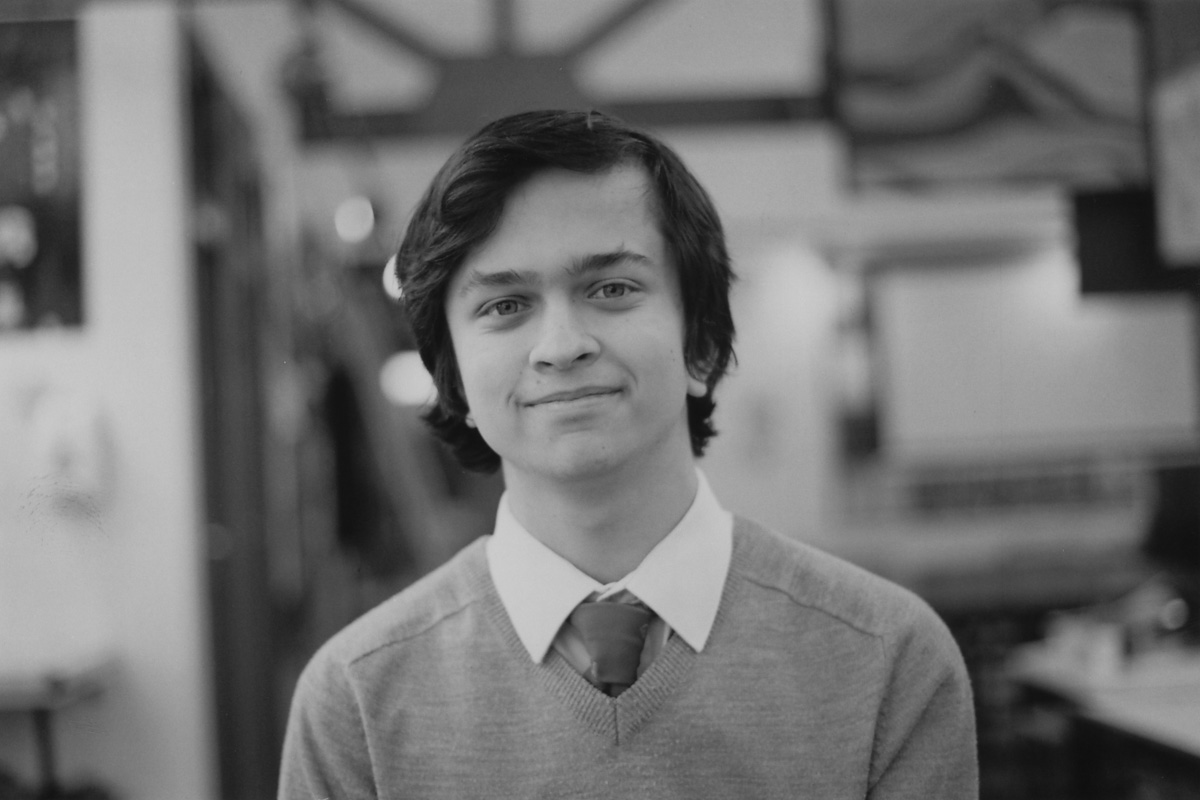
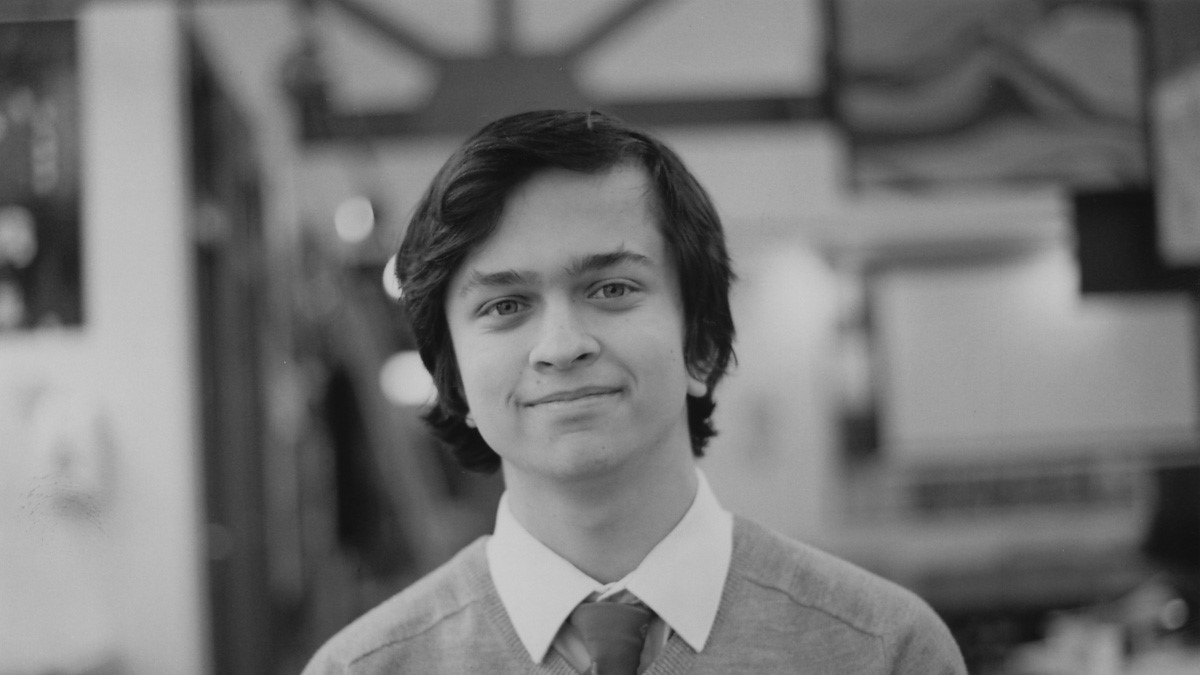
changed images, styling of about page, added fa, disabled jarallax

diff --git a/about.html b/about.html
@@ -6,7 +6,8 @@
   <meta http-equiv="X-UA-Compatible" content="ie=edge">
   <!-- Bootstrap Dependencies -->
   <link rel="stylesheet" href="https://stackpath.bootstrapcdn.com/bootstrap/4.3.1/css/bootstrap.min.css" integrity="sha384-ggOyR0iXCbMQv3Xipma34MD+dH/1fQ784/j6cY/iJTQUOhcWr7x9JvoRxT2MZw1T" crossorigin="anonymous">
-  <!-- Fonts -->
+  <!-- Font Awesome Icons -->
+  <script src="https://kit.fontawesome.com/d580e608c2.js" crossorigin="anonymous"></script>
   <!-- Favicon -->
   <link rel="apple-touch-icon" sizes="180x180" href="/apple-touch-icon.png">
   <link rel="icon" type="image/png" sizes="32x32" href="/favicon-32x32.png">
@@ -16,10 +17,12 @@
   <meta name="msapplication-TileColor" content="#da532c">
   <meta name="theme-color" content="#ffffff">
   <!-- Custom Styles -->
+  <link rel="stylesheet" href="css/common.css">
+  <link rel="stylesheet" href="css/about.css">
   <title>Matthew Watt - About</title>
 </head>
 <body>
-  <nav class="navbar navbar-expand-sm navbar-dark bg-dark">
+  <nav class="navbar navbar-expand-sm navbar-light bg-light">
     <a class="navbar-brand" href="./">Matthew Watt</a>
     <button class="navbar-toggler" type="button" data-toggle="collapse" data-target="#navbarSupportedContent" aria-controls="navbarSupportedContent" aria-expanded="false" aria-label="Toggle navigation">
       <span class="navbar-toggler-icon"></span>
@@ -41,29 +44,42 @@
       </ul>
     </div>
   </nav>
-  <main>
-    <h1>About Me</h1>
-    <h2>Skills</h2>
-    <p>
+  <header class="header-img mx-auto px-auto">
+    <img src="images/bw_guitar/bw_guitar_400.jpg"
+         srcset="images/bw_guitar/bw_guitar_big.jpg 2000w,
+         images/bw_guitar/bw_guitar_1920.jpg 1920w,
+         images/bw_guitar/bw_guitar_1200.jpg 1200w,
+         images/bw_guitar/bw_guitar_992.jpg 992w,
+         images/bw_guitar/bw_guitar_768.jpg 768w,
+         images/bw_guitar/bw_guitar_576.jpg 576w,
+         images/bw_guitar/bw_guitar_400.jpg 400w"
+         alt="Black and white photo of Matthew Watt playing guitar">
+  </header>
+  <main class="container-fluid">
+    <h1 class="display-4 mt-3 mx-auto text-center">About Me</h1>
+    <h2 class="text-center">Skills</h2>
+    <p class="mx-0">
       <ul>
         <li>Language/Tech: Java, Ruby, Angular, HTML/CSS/JS, SQL, Python, Haskell & Git</li>
-        <li>Interdisciplinary experience as part of <a href="http://gec.group.shef.ac.uk/wp/">Global Engineering Challenge</a> & <a href="http://www.yourehired.group.shef.ac.uk/wp/">Engineering: You're Hired</a> at University of Sheffield.</li>
+        <li>Interdisciplinary experience as part of <a href="http://gec.group.shef.ac.uk/wp/" class="my-link" >Global Engineering Challenge</a> & <a href="http://www.yourehired.group.shef.ac.uk/wp/" class="my-link" >Engineering: You're Hired</a> at University of Sheffield.</li>
         <li>Quick to learn new workflows and processes.</li>
         <li>Good organisation & time management skills developed through individual and group assignments at university.</li>
       </ul>
     </p>
-    <h2>Experience: Grass Valley internship, Summer 2018</h2>
+    <hr>
+    <h2 class="text-center">Experience: Grass Valley internship, Summer 2018</h2>
     <p>
-      I completed a 10 week internship for Grass Valley from July to September 2018, working in their Castle Donington office. I was part of a Core Technology team, working on some of the systems underlying their other products. I completed bug-fixing and polish on user interfaces in Angular 4, helping the company address some feedback from internal and external users. In the process I also gained experience with <a href="https://github.com/intuit/karate">Karate</a>, an API testing framework - I uncovered and helped troubleshoot a bug which, when fixed, ensured the build process for one of GV's core systems ran smoothly on all of its different deployment platforms. References available on request.
+      I completed a 10 week internship for Grass Valley from July to September 2018, working in their Castle Donington office. I was part of a Core Technology team, working on some of the systems underlying their other products. I completed bug-fixing and polish on user interfaces in Angular 4, helping the company address some feedback from internal and external users. In the process I also gained experience with <a href="https://github.com/intuit/karate" class="my-link" >Karate</a>, an API testing framework - I uncovered and helped troubleshoot a bug which, when fixed, ensured the build process for one of GV's core systems ran smoothly on all of its different deployment platforms. References available on request.
     </p>
-    <h2>Education</h2>
-    <h3>University of Sheffield (2016-2020)</h3>
+    <hr>
+    <h2 class="text-center">Education</h2>
+    <h3 class="text-center">University of Sheffield (2016-2020)</h3>
     <ul>
-      <li>On track for a First in <a href="https://www.sheffield.ac.uk/prospectus/courseDetails.do?id=G4002020">MCOMP Computer Science</a> @ University of Sheffield</li>
+      <li>On track for a First in <a href="https://www.sheffield.ac.uk/prospectus/courseDetails.do?id=G4002020" class="my-link" >MCOMP Computer Science</a> @ University of Sheffield</li>
       <li>Received a scholarship for academic achievement (achieved equivalent of A*AA at A level and maintained high grades at university)</li>
       <li>Taken mostly engineering-focused and practical modules throughout 3rd and 4th year.</li>
     </ul>
-    <h3>Loughborough Grammar School (2009-2016)</h3>
+    <h3 class="text-center">Loughborough Grammar School (2009-2016)</h3>
     <h4>A Level:</h4>
     <ul>
       <li>A in Mathematics, Physics and Computing</li>
@@ -79,21 +95,31 @@
       <li>A in Biology, Chemistry, Computing and English Language</li>
       <li>B in English Literature</li>
     </ul>
-    <h2>Hobbies & Interests</h2>
+    <hr>
+    <h2 class="text-center">Music</h2>
     <p>
-      My main hobby for the past few years has been writing and performing music. I've been heavily involved in the <a href="https://musicplayers.union.shef.ac.uk/">Music Players' Society</a> at university, being elected first as Rock Band Coordinator and then as President in my second and third year. It's taught me a lot about working with people in a more diverse team than my course, taking responsibility for fixing problems and organising events which benefit the society of 150+ members.
+      My main hobby for the past few years has been writing and performing music. I've been heavily involved in the <a href="https://musicplayers.union.shef.ac.uk/" class="my-link" >Music Players' Society</a> at university, being elected first as Rock Band Coordinator and then as President in my second and third year. It's taught me a lot about working with people in a more diverse team than my course, taking responsibility for fixing problems and organising events which benefit the society of 150+ members.
     </p>
+    <h3 class="text-center">Jumper Boy</h3>
+    <div class="container d-flex justify-content-around py-3">
+      <a href="https://smarturl.it/l30kn5">
+        <i class="fab fa-spotify"></i>
+      </a>
+      <a href="https://www.facebook.com/pg/JumperBoyTheBand">
+        <i class="fab fa-facebook-square"></i>
+      </a>
+      <a href="https://www.instagram.com/jumperboytheband/">
+        <i class="fab fa-instagram"></i>
+      </a>
+    </div>
     <p>
-      I'm also a guitarist/vocalist and songwriter for the band Jumper Boy - A 4 Piece Indie Rock Band with Math Rock, Post Punk and Lo-Fi influences. We've released a 5-song EP on streaming services and played increasingly popular gigs in the Sheffield area.
-      <a href="https://smarturl.it/l30kn5">Listen to our EP</a>
-      <a href="https://www.facebook.com/pg/JumperBoyTheBand">Facebook</a>
-      <a href="https://www.instagram.com/jumperboytheband/">Instagram</a>
+      I'm also a guitarist/vocalist and songwriter for the band Jumper Boy - A 4 Piece Indie Rock band with Math Rock, Post Punk and Lo-Fi influences. We've released a 5-song EP online and played increasingly popular gigs in the Sheffield area.
     </p>
   </main>
   <script src="https://code.jquery.com/jquery-3.3.1.slim.min.js" integrity="sha384-q8i/X+965DzO0rT7abK41JStQIAqVgRVzpbzo5smXKp4YfRvH+8abtTE1Pi6jizo" crossorigin="anonymous"></script>
   <script src="https://cdnjs.cloudflare.com/ajax/libs/popper.js/1.14.7/umd/popper.min.js" integrity="sha384-UO2eT0CpHqdSJQ6hJty5KVphtPhzWj9WO1clHTMGa3JDZwrnQq4sF86dIHNDz0W1" crossorigin="anonymous"></script>
   <script src="https://stackpath.bootstrapcdn.com/bootstrap/4.3.1/js/bootstrap.min.js" integrity="sha384-JjSmVgyd0p3pXB1rRibZUAYoIIy6OrQ6VrjIEaFf/nJGzIxFDsf4x0xIM+B07jRM" crossorigin="anonymous"></script>
-  <script src="https://unpkg.com/jarallax@1.10/dist/jarallax.min.js"></script>
-  <script src="js/image_scrolling.js"></script>
+  <!-- <script src="https://unpkg.com/jarallax@1.10/dist/jarallax.min.js"></script>
+  <script src="js/image_scrolling.js"></script> -->
 </body>
 </html>

diff --git a/index.html b/index.html
@@ -6,7 +6,8 @@
   <meta http-equiv="X-UA-Compatible" content="ie=edge">
   <!-- Bootstrap Dependencies -->
   <link rel="stylesheet" href="https://stackpath.bootstrapcdn.com/bootstrap/4.3.1/css/bootstrap.min.css" integrity="sha384-ggOyR0iXCbMQv3Xipma34MD+dH/1fQ784/j6cY/iJTQUOhcWr7x9JvoRxT2MZw1T" crossorigin="anonymous">
-  <!-- Fonts -->
+  <!-- Font Awesome Icons -->
+  <script src="https://kit.fontawesome.com/d580e608c2.js" crossorigin="anonymous"></script>
   <!-- Favicon -->
   <link rel="apple-touch-icon" sizes="180x180" href="/apple-touch-icon.png">
   <link rel="icon" type="image/png" sizes="32x32" href="/favicon-32x32.png">
@@ -42,7 +43,7 @@
       </ul>
     </div>
   </nav>
-  <header class="header-img">
+  <header class="header-img mx-auto px-auto jarallax">
     <img src="images/bw_profile_pic/bw_profile_pic_400.jpg"
          srcset="images/bw_profile_pic/bw_profile_pic_big.jpg 2000w,
          images/bw_profile_pic/bw_profile_pic_1920.jpg 1920w,
@@ -51,9 +52,10 @@
          images/bw_profile_pic/bw_profile_pic_768.jpg 768w,
          images/bw_profile_pic/bw_profile_pic_576.jpg 576w,
          images/bw_profile_pic/bw_profile_pic_400.jpg 400w"
+         sizes="(min-width: 2000px) 2000px, 100vw"
          alt="Black and white photo of Matthew Watt">
   </header>
-  <main class="container-fluid">
+  <main class="container-fluid jarallax">
     </div>
     <h1 class="display-3 mt-3 mx-auto text-center">Matthew Watt</h1>
     <hr>
@@ -76,7 +78,7 @@
   <script src="https://code.jquery.com/jquery-3.3.1.slim.min.js" integrity="sha384-q8i/X+965DzO0rT7abK41JStQIAqVgRVzpbzo5smXKp4YfRvH+8abtTE1Pi6jizo" crossorigin="anonymous"></script>
   <script src="https://cdnjs.cloudflare.com/ajax/libs/popper.js/1.14.7/umd/popper.min.js" integrity="sha384-UO2eT0CpHqdSJQ6hJty5KVphtPhzWj9WO1clHTMGa3JDZwrnQq4sF86dIHNDz0W1" crossorigin="anonymous"></script>
   <script src="https://stackpath.bootstrapcdn.com/bootstrap/4.3.1/js/bootstrap.min.js" integrity="sha384-JjSmVgyd0p3pXB1rRibZUAYoIIy6OrQ6VrjIEaFf/nJGzIxFDsf4x0xIM+B07jRM" crossorigin="anonymous"></script>
-  <script src="https://unpkg.com/jarallax@1.10/dist/jarallax.min.js"></script>
-  <script src="js/image_scrolling.js"></script>
+  <!-- <script src="https://unpkg.com/jarallax@1.10/dist/jarallax.min.js"></script>
+  <script src="js/image_scrolling.js"></script> -->
 </body>
 </html>

diff --git a/projects/habitica-assistant.html b/projects/habitica-assistant.html
@@ -6,7 +6,8 @@
   <meta http-equiv="X-UA-Compatible" content="ie=edge">
   <!-- Bootstrap Dependencies -->
   <link rel="stylesheet" href="https://stackpath.bootstrapcdn.com/bootstrap/4.3.1/css/bootstrap.min.css" integrity="sha384-ggOyR0iXCbMQv3Xipma34MD+dH/1fQ784/j6cY/iJTQUOhcWr7x9JvoRxT2MZw1T" crossorigin="anonymous">
-  <!-- Fonts -->
+  <!-- Font Awesome Icons -->
+  <script src="https://kit.fontawesome.com/d580e608c2.js" crossorigin="anonymous"></script>
   <!-- Favicon -->
   <link rel="apple-touch-icon" sizes="180x180" href="/apple-touch-icon.png">
   <link rel="icon" type="image/png" sizes="32x32" href="/favicon-32x32.png">
@@ -19,7 +20,7 @@
   <title>Matthew Watt - Projects - Habitica Assistant</title>
 </head>
 <body>
-  <nav class="navbar navbar-expand-sm navbar-dark bg-dark">
+  <nav class="navbar navbar-expand-sm navbar-light bg-light">
     <a class="navbar-brand" href="../">Matthew Watt</a>
     <button class="navbar-toggler" type="button" data-toggle="collapse" data-target="#navbarSupportedContent" aria-controls="navbarSupportedContent" aria-expanded="false" aria-label="Toggle navigation">
       <span class="navbar-toggler-icon"></span>
@@ -60,7 +61,7 @@
   <script src="https://code.jquery.com/jquery-3.3.1.slim.min.js" integrity="sha384-q8i/X+965DzO0rT7abK41JStQIAqVgRVzpbzo5smXKp4YfRvH+8abtTE1Pi6jizo" crossorigin="anonymous"></script>
   <script src="https://cdnjs.cloudflare.com/ajax/libs/popper.js/1.14.7/umd/popper.min.js" integrity="sha384-UO2eT0CpHqdSJQ6hJty5KVphtPhzWj9WO1clHTMGa3JDZwrnQq4sF86dIHNDz0W1" crossorigin="anonymous"></script>
   <script src="https://stackpath.bootstrapcdn.com/bootstrap/4.3.1/js/bootstrap.min.js" integrity="sha384-JjSmVgyd0p3pXB1rRibZUAYoIIy6OrQ6VrjIEaFf/nJGzIxFDsf4x0xIM+B07jRM" crossorigin="anonymous"></script>
-  <script src="https://unpkg.com/jarallax@1.10/dist/jarallax.min.js"></script>
-  <script src="js/image_scrolling.js"></script>
+  <!-- <script src="https://unpkg.com/jarallax@1.10/dist/jarallax.min.js"></script>
+  <script src="js/image_scrolling.js"></script> -->
 </body>
 </html>

diff --git a/projects/dissertation.html b/projects/dissertation.html
@@ -6,7 +6,8 @@
   <meta http-equiv="X-UA-Compatible" content="ie=edge">
   <!-- Bootstrap Dependencies -->
   <link rel="stylesheet" href="https://stackpath.bootstrapcdn.com/bootstrap/4.3.1/css/bootstrap.min.css" integrity="sha384-ggOyR0iXCbMQv3Xipma34MD+dH/1fQ784/j6cY/iJTQUOhcWr7x9JvoRxT2MZw1T" crossorigin="anonymous">
-  <!-- Fonts -->
+  <!-- Font Awesome Icons -->
+  <script src="https://kit.fontawesome.com/d580e608c2.js" crossorigin="anonymous"></script>
   <!-- Favicon -->
   <link rel="apple-touch-icon" sizes="180x180" href="/apple-touch-icon.png">
   <link rel="icon" type="image/png" sizes="32x32" href="/favicon-32x32.png">
@@ -19,7 +20,7 @@
   <title>Matthew Watt - Projects - Dissertation</title>
 </head>
 <body>
-  <nav class="navbar navbar-expand-sm navbar-dark bg-dark">
+  <nav class="navbar navbar-expand-sm navbar-light bg-light">
     <a class="navbar-brand" href="../">Matthew Watt</a>
     <button class="navbar-toggler" type="button" data-toggle="collapse" data-target="#navbarSupportedContent" aria-controls="navbarSupportedContent" aria-expanded="false" aria-label="Toggle navigation">
       <span class="navbar-toggler-icon"></span>
@@ -67,7 +68,7 @@
   <script src="https://code.jquery.com/jquery-3.3.1.slim.min.js" integrity="sha384-q8i/X+965DzO0rT7abK41JStQIAqVgRVzpbzo5smXKp4YfRvH+8abtTE1Pi6jizo" crossorigin="anonymous"></script>
   <script src="https://cdnjs.cloudflare.com/ajax/libs/popper.js/1.14.7/umd/popper.min.js" integrity="sha384-UO2eT0CpHqdSJQ6hJty5KVphtPhzWj9WO1clHTMGa3JDZwrnQq4sF86dIHNDz0W1" crossorigin="anonymous"></script>
   <script src="https://stackpath.bootstrapcdn.com/bootstrap/4.3.1/js/bootstrap.min.js" integrity="sha384-JjSmVgyd0p3pXB1rRibZUAYoIIy6OrQ6VrjIEaFf/nJGzIxFDsf4x0xIM+B07jRM" crossorigin="anonymous"></script>
-  <script src="https://unpkg.com/jarallax@1.10/dist/jarallax.min.js"></script>
-  <script src="js/image_scrolling.js"></script>
+  <!-- <script src="https://unpkg.com/jarallax@1.10/dist/jarallax.min.js"></script>
+  <script src="js/image_scrolling.js"></script> -->
 </body>
 </html>

diff --git a/projects/software-hut.html b/projects/software-hut.html
@@ -6,7 +6,8 @@
   <meta http-equiv="X-UA-Compatible" content="ie=edge">
   <!-- Bootstrap Dependencies -->
   <link rel="stylesheet" href="https://stackpath.bootstrapcdn.com/bootstrap/4.3.1/css/bootstrap.min.css" integrity="sha384-ggOyR0iXCbMQv3Xipma34MD+dH/1fQ784/j6cY/iJTQUOhcWr7x9JvoRxT2MZw1T" crossorigin="anonymous">
-  <!-- Fonts -->
+  <!-- Font Awesome Icons -->
+  <script src="https://kit.fontawesome.com/d580e608c2.js" crossorigin="anonymous"></script>
   <!-- Favicon -->
   <link rel="apple-touch-icon" sizes="180x180" href="/apple-touch-icon.png">
   <link rel="icon" type="image/png" sizes="32x32" href="/favicon-32x32.png">
@@ -19,7 +20,7 @@
   <title>Matthew Watt - Projects - Software Hut</title>
 </head>
 <body>
-  <nav class="navbar navbar-expand-sm navbar-dark bg-dark">
+  <nav class="navbar navbar-expand-sm navbar-light bg-light">
     <a class="navbar-brand" href="../">Matthew Watt</a>
     <button class="navbar-toggler" type="button" data-toggle="collapse" data-target="#navbarSupportedContent" aria-controls="navbarSupportedContent" aria-expanded="false" aria-label="Toggle navigation">
       <span class="navbar-toggler-icon"></span>
@@ -60,7 +61,7 @@
   <script src="https://code.jquery.com/jquery-3.3.1.slim.min.js" integrity="sha384-q8i/X+965DzO0rT7abK41JStQIAqVgRVzpbzo5smXKp4YfRvH+8abtTE1Pi6jizo" crossorigin="anonymous"></script>
   <script src="https://cdnjs.cloudflare.com/ajax/libs/popper.js/1.14.7/umd/popper.min.js" integrity="sha384-UO2eT0CpHqdSJQ6hJty5KVphtPhzWj9WO1clHTMGa3JDZwrnQq4sF86dIHNDz0W1" crossorigin="anonymous"></script>
   <script src="https://stackpath.bootstrapcdn.com/bootstrap/4.3.1/js/bootstrap.min.js" integrity="sha384-JjSmVgyd0p3pXB1rRibZUAYoIIy6OrQ6VrjIEaFf/nJGzIxFDsf4x0xIM+B07jRM" crossorigin="anonymous"></script>
-  <script src="https://unpkg.com/jarallax@1.10/dist/jarallax.min.js"></script>
-  <script src="js/image_scrolling.js"></script>
+  <!-- <script src="https://unpkg.com/jarallax@1.10/dist/jarallax.min.js"></script>
+  <script src="js/image_scrolling.js"></script> -->
 </body>
 </html>

diff --git a/projects/midi-synth.html b/projects/midi-synth.html
@@ -6,7 +6,8 @@
   <meta http-equiv="X-UA-Compatible" content="ie=edge">
   <!-- Bootstrap Dependencies -->
   <link rel="stylesheet" href="https://stackpath.bootstrapcdn.com/bootstrap/4.3.1/css/bootstrap.min.css" integrity="sha384-ggOyR0iXCbMQv3Xipma34MD+dH/1fQ784/j6cY/iJTQUOhcWr7x9JvoRxT2MZw1T" crossorigin="anonymous">
-  <!-- Fonts -->
+  <!-- Font Awesome Icons -->
+  <script src="https://kit.fontawesome.com/d580e608c2.js" crossorigin="anonymous"></script>
   <!-- Favicon -->
   <link rel="apple-touch-icon" sizes="180x180" href="/apple-touch-icon.png">
   <link rel="icon" type="image/png" sizes="32x32" href="/favicon-32x32.png">
@@ -19,7 +20,7 @@
   <title>Matthew Watt - Projects - MIDI Synth</title>
 </head>
 <body>
-  <nav class="navbar navbar-expand-sm navbar-dark bg-dark">
+  <nav class="navbar navbar-expand-sm navbar-light bg-light">
     <a class="navbar-brand" href="../">Matthew Watt</a>
     <button class="navbar-toggler" type="button" data-toggle="collapse" data-target="#navbarSupportedContent" aria-controls="navbarSupportedContent" aria-expanded="false" aria-label="Toggle navigation">
       <span class="navbar-toggler-icon"></span>
@@ -65,7 +66,7 @@
   <script src="https://code.jquery.com/jquery-3.3.1.slim.min.js" integrity="sha384-q8i/X+965DzO0rT7abK41JStQIAqVgRVzpbzo5smXKp4YfRvH+8abtTE1Pi6jizo" crossorigin="anonymous"></script>
   <script src="https://cdnjs.cloudflare.com/ajax/libs/popper.js/1.14.7/umd/popper.min.js" integrity="sha384-UO2eT0CpHqdSJQ6hJty5KVphtPhzWj9WO1clHTMGa3JDZwrnQq4sF86dIHNDz0W1" crossorigin="anonymous"></script>
   <script src="https://stackpath.bootstrapcdn.com/bootstrap/4.3.1/js/bootstrap.min.js" integrity="sha384-JjSmVgyd0p3pXB1rRibZUAYoIIy6OrQ6VrjIEaFf/nJGzIxFDsf4x0xIM+B07jRM" crossorigin="anonymous"></script>
-  <script src="https://unpkg.com/jarallax@1.10/dist/jarallax.min.js"></script>
-  <script src="js/image_scrolling.js"></script>
+  <!-- <script src="https://unpkg.com/jarallax@1.10/dist/jarallax.min.js"></script>
+  <script src="js/image_scrolling.js"></script> -->
 </body>
 </html>

diff --git a/projects.html b/projects.html
@@ -6,7 +6,8 @@
   <meta http-equiv="X-UA-Compatible" content="ie=edge">
   <!-- Bootstrap Dependencies -->
   <link rel="stylesheet" href="https://stackpath.bootstrapcdn.com/bootstrap/4.3.1/css/bootstrap.min.css" integrity="sha384-ggOyR0iXCbMQv3Xipma34MD+dH/1fQ784/j6cY/iJTQUOhcWr7x9JvoRxT2MZw1T" crossorigin="anonymous">
-  <!-- Fonts -->
+  <!-- Font Awesome Icons -->
+  <script src="https://kit.fontawesome.com/d580e608c2.js" crossorigin="anonymous"></script>
   <!-- Favicon -->
   <link rel="apple-touch-icon" sizes="180x180" href="/apple-touch-icon.png">
   <link rel="icon" type="image/png" sizes="32x32" href="/favicon-32x32.png">
@@ -19,7 +20,7 @@
   <title>Matthew Watt - Projects</title>
 </head>
 <body>
-  <nav class="navbar navbar-expand-sm navbar-dark bg-dark">
+  <nav class="navbar navbar-expand-sm navbar-light bg-light">
     <a class="navbar-brand" href="./">Matthew Watt</a>
     <button class="navbar-toggler" type="button" data-toggle="collapse" data-target="#navbarSupportedContent" aria-controls="navbarSupportedContent" aria-expanded="false" aria-label="Toggle navigation">
       <span class="navbar-toggler-icon"></span>
@@ -86,7 +87,7 @@
   <script src="https://code.jquery.com/jquery-3.3.1.slim.min.js" integrity="sha384-q8i/X+965DzO0rT7abK41JStQIAqVgRVzpbzo5smXKp4YfRvH+8abtTE1Pi6jizo" crossorigin="anonymous"></script>
   <script src="https://cdnjs.cloudflare.com/ajax/libs/popper.js/1.14.7/umd/popper.min.js" integrity="sha384-UO2eT0CpHqdSJQ6hJty5KVphtPhzWj9WO1clHTMGa3JDZwrnQq4sF86dIHNDz0W1" crossorigin="anonymous"></script>
   <script src="https://stackpath.bootstrapcdn.com/bootstrap/4.3.1/js/bootstrap.min.js" integrity="sha384-JjSmVgyd0p3pXB1rRibZUAYoIIy6OrQ6VrjIEaFf/nJGzIxFDsf4x0xIM+B07jRM" crossorigin="anonymous"></script>
-  <script src="https://unpkg.com/jarallax@1.10/dist/jarallax.min.js"></script>
-  <script src="js/image_scrolling.js"></script>
+  <!-- <script src="https://unpkg.com/jarallax@1.10/dist/jarallax.min.js"></script>
+  <script src="js/image_scrolling.js"></script> -->
 </body>
 </html>

diff --git a/css/common.css b/css/common.css
@@ -27,15 +27,28 @@
 }
 
 /* Custom Styles */
+.header-img {
+  width: 100vw;
+  position: relative;
+  max-width: 100vw;
+}
+
 .header-img img {
-  width: inherit;
-  height: auto;
+  width: 100%;
 }
 
 .my-link {
   font-weight: bold;
   color: black !important;
   text-decoration: underline dotted;
+}
+
+.h3, h3 {
+  font-size: 1.5rem;
+}
+
+.h4, h4 {
+  font-size: 1.25rem;
 }
 
 /* CUSTOM BOOTSTRAP THEME */

diff --git a/css/about.css b/css/about.css
@@ -1,0 +1,5 @@
+/* font-awesome */
+.fab {
+  color: black;
+  font-size: 2.5rem;
+}
